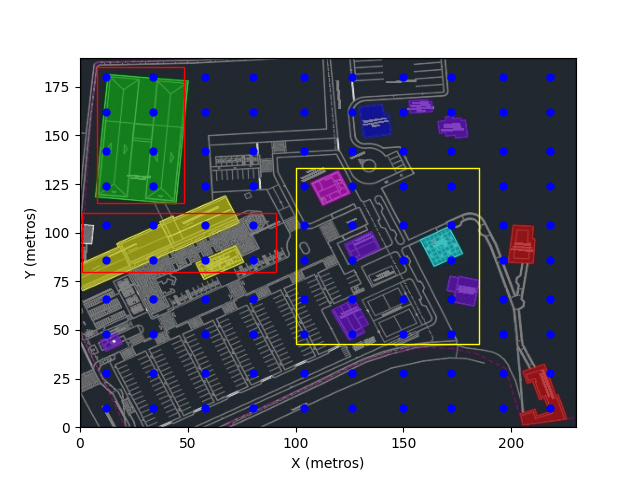
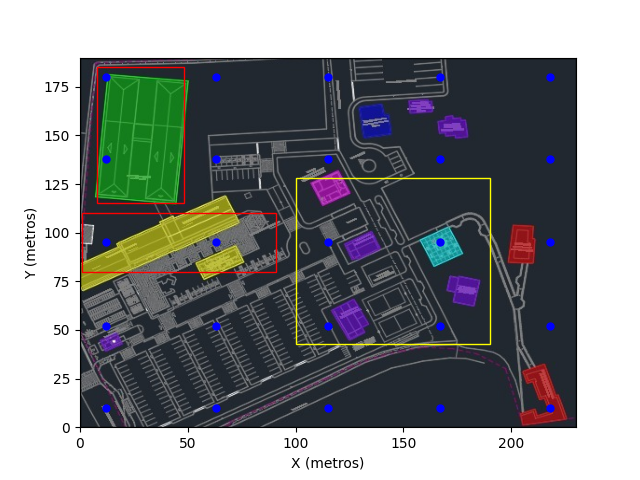
Changes in instance_generator.

diff --git a/src/instance_generator.py b/src/instance_generator.py
@@ -1,86 +1,70 @@
 import numpy as np
 import matplotlib.pyplot as plt
+from retangulo_demanda import RetanguloDemanda
 
-def criarFigura (largura, altura, num_pontos_x, num_pontos_y, path_image, num_totaldemanda, perc_p):
+def criarFigura (largura, altura, num_pontos_x, num_pontos_y, path_image):
     fig, ax = plt.subplots()
     retangulo = plt.Rectangle((0, 0), largura, altura, edgecolor='black', facecolor='none')
     ax.add_patch(retangulo)
-    aux_demanda = []
-    demanda = []
-    p = int((num_pontos_x * num_pontos_y) * perc_p)
 
-    cap = int((num_totaldemanda/p) * 1.7)
-
-    # Adicionar uma imagem de fundo ao retângulo
     img = plt.imread(path_image)
     ax.imshow(img, extent=[0, largura, 0, altura], aspect='auto')
 
-    # Calcular as coordenadas dos pontos no grid usando distância de Manhattan
-    x_coords = np.linspace(largura*0.05, largura*0.95, num_pontos_x)  # Ajuste para não ficar nas bordas
-    y_coords = np.linspace(altura*0.05, altura*0.95, num_pontos_y)    # Ajuste para não ficar nas bordas
+    # distância de Manhattan
+    x_coords = np.linspace(largura*0.05, largura*0.95, num_pontos_x)
+    y_coords = np.linspace(altura*0.05, altura*0.95, num_pontos_y)
 
-    # Gerar todas as combinações de coordenadas
     pontos_grid = np.array(np.meshgrid(x_coords, y_coords)).T.reshape(-1, 2)
 
     pontos_grid = np.round(pontos_grid).astype(int)
 
-    # Gerar todas as combinações de coordenadas
     distancias_manhattan = np.zeros((len(pontos_grid), len(pontos_grid)))
 
     for i, ponto_a in enumerate(pontos_grid):
         for j, ponto_b in enumerate(pontos_grid):
             distancias_manhattan[i, j] = abs(ponto_a[0] - ponto_b[0]) + abs(ponto_a[1] - ponto_b[1])
 
-    # Plotar os pontos do grid na figura
     ax.plot(pontos_grid[:, 0], pontos_grid[:, 1], 'bo', markersize=5)
 
-    # Adicionar rótulos aos eixos
     ax.set_xlabel('X (metros)')
     ax.set_ylabel('Y (metros)')
 
-    # Tamanho do retângulo menor
-    largura_altademanda1 = 40
-    altura_altademanda1 = 70
+    def criarFiguraRetanguloDemanda(RetanguloDemanda_obj, cor):
+        figura = plt.Rectangle(
+            (RetanguloDemanda_obj.x, RetanguloDemanda_obj.y),
+            RetanguloDemanda_obj.largura,
+            RetanguloDemanda_obj.altura,
+            edgecolor=cor,
+            facecolor='none'
+        )
+        return figura
 
-    # Calcular as coordenadas do retângulo menor
-    x_altademanda1 = 8
-    y_altademanda1 = 115
+    alta_demanda1 = RetanguloDemanda(8, 115, 70, 40)
+    figura1 = criarFiguraRetanguloDemanda(alta_demanda1, "red")
+    ax.add_patch(figura1)
 
-    # Desenhar o retângulo menor
-    retangulo_altademanda1 = plt.Rectangle((x_altademanda1, y_altademanda1), largura_altademanda1, altura_altademanda1, edgecolor='red', facecolor='none')
-    ax.add_patch(retangulo_altademanda1)
+    alta_demanda2 = RetanguloDemanda(1,80,30,90)
+    figura2 = criarFiguraRetanguloDemanda(alta_demanda2, "red")
+    ax.add_patch(figura2)
 
-    largura_altademanda2 = 90
-    altura_altademanda2 = 30
+    media_demanda = RetanguloDemanda(100,43,85,90)
+    figura3 = criarFiguraRetanguloDemanda(media_demanda, "yellow")
+    ax.add_patch(figura3)
 
-    x_altademanda2 = 1
-    y_altademanda2 = 80
-
-    # Desenhar o retângulo menor
-    retangulo_altademanda2 = plt.Rectangle((x_altademanda2, y_altademanda2), largura_altademanda2, altura_altademanda2, edgecolor='red', facecolor='none')
-    ax.add_patch(retangulo_altademanda2)
-
-    largura_mediademanda = 85
-    altura_mediademanda = 90
-
-    x_mediademanda = 100
-    y_mediademanda = 43
-
-    retangulo_mediademanda = plt.Rectangle((x_mediademanda, y_mediademanda), largura_mediademanda, altura_mediademanda, edgecolor='yellow', facecolor='none')
-    ax.add_patch(retangulo_mediademanda)
-
-    # Salvar a figura com o retângulo menor
     plt.savefig('instance_image.png')
 
-    # Mostrar a figura
     plt.show()
 
+    return pontos_grid, alta_demanda1, alta_demanda2, media_demanda, distancias_manhattan
+
+def calcular_demanda(pontos_grid, alta_demanda1, alta_demanda2, media_demanda, num_totaldemanda):
+    aux_demanda = []
     for ponto in pontos_grid:
-        if (ponto[0] >= x_altademanda1 and ponto[0] <= (x_altademanda1 + largura_altademanda1)) and (ponto[1] >= y_altademanda1 and ponto[1] <= (y_altademanda1 + altura_altademanda1)):
+        if (alta_demanda1.x <= ponto[0] <= (alta_demanda1.x + alta_demanda1.largura)) and (alta_demanda1.y <= ponto[1] <= (alta_demanda1.y + alta_demanda1.altura)):
             aux_demanda.append(1)
-        elif (ponto[0] >= x_altademanda2 and ponto[0] <= (x_altademanda2 + largura_altademanda2)) and (ponto[1] >= y_altademanda2  and ponto[1] <= (y_altademanda2 + altura_altademanda2)):
+        elif (alta_demanda2.x <= ponto[0] <= (alta_demanda2.x + alta_demanda2.largura)) and (alta_demanda1.y <= ponto[1] <= (alta_demanda1.y + alta_demanda1.altura)):
             aux_demanda.append(1)
-        elif (ponto[0] >= x_mediademanda and ponto[0] <= (x_mediademanda + largura_mediademanda)) and (ponto[1] >= y_mediademanda and ponto[1] <= (y_mediademanda + altura_mediademanda)):
+        elif (media_demanda.x <= ponto[0] <= (media_demanda.x + media_demanda.largura)) and (media_demanda.y <= ponto[1] <= (media_demanda.y + media_demanda.altura)):
             aux_demanda.append(2)
         else:
             aux_demanda.append(3)
@@ -103,6 +87,7 @@ def criarFigura (largura, altura, num_pontos_x, num_pontos_y, path_image, num_to
 
     sobra_valores = (num_totaldemanda - ((val_altademanda * contaltademanda) + (val_mediademanda * contmediademanda) + (val_baixademanda * contbaixademanda)))
 
+    demanda = []
     for i in aux_demanda:
         if (sobra_valores > 0):
             if i == 1:
@@ -122,17 +107,26 @@ def criarFigura (largura, altura, num_pontos_x, num_pontos_y, path_image, num_to
             else:
                 demanda.append(val_baixademanda)
 
-    with open('AAD_PMEDcap_'+ str(num_pontos_x * num_pontos_y) + '_' + str(p) +'.txt', 'w') as f:
-        f.write(str(num_pontos_x * num_pontos_y) + "\n")
-        f.write(str(p) + "\n")
-        f.write(str(cap) + "\n")
-        for i in demanda:
-            f.write(str(i) + " ")
-        f.write("\n")
-        for linha in range(len(distancias_manhattan)):
-            for coluna in range(len(distancias_manhattan[linha])):
-                f.write(str(linha) + " " + str(coluna) + " " + str(int(distancias_manhattan[linha, coluna])) + "\n")
+    return demanda
+def salvar_dados(num_pontos_x, num_pontos_y, p, cap, demanda, distancias_manhattan):
+    with open(f'AAD_PMEDcap_{num_pontos_x * num_pontos_y}_{p}.txt', 'w') as f:
+        f.write(f"{num_pontos_x * num_pontos_y}\n{p}\n{cap}\n")
+        f.write(" ".join(map(str, demanda)) + "\n")
+        for linha, colunas in enumerate(distancias_manhattan):
+            for coluna, distancia in enumerate(colunas):
+                f.write(f"{linha} {coluna} {int(distancia)}\n")
 
 
 if __name__ == '__main__':
-    criarFigura(230, 190, 10, 10, 'C:\\P-Medianas-Capacitado\\image_map.jpeg', 500, 0.3)
+    perc_p = 0.3
+    num_totaldemanda = 500
+    num_pontos_x = 5
+    num_pontos_y = 5
+
+    p = int((num_pontos_x * num_pontos_y) * perc_p)
+    cap = int((num_totaldemanda/p) * 1.7)
+
+    pontos_grid, alta_demanda1, alta_demanda2, media_demanda, distancias_manhattan = criarFigura(230, 190, num_pontos_x, num_pontos_y, 'C:\\P-Medianas-Capacitado\\image_map.jpeg')
+    demanda = calcular_demanda(pontos_grid, alta_demanda1, alta_demanda2, media_demanda, num_totaldemanda)
+    salvar_dados(num_pontos_x, num_pontos_y, p, cap, demanda, distancias_manhattan)
+

diff --git a/src/retangulo_demanda.py b/src/retangulo_demanda.py
@@ -1,0 +1,6 @@
+class RetanguloDemanda:
+    def __init__(self, x, y, altura, largura) -> None:
+        self.x = x
+        self.y = y
+        self.altura = altura
+        self.largura = largura
